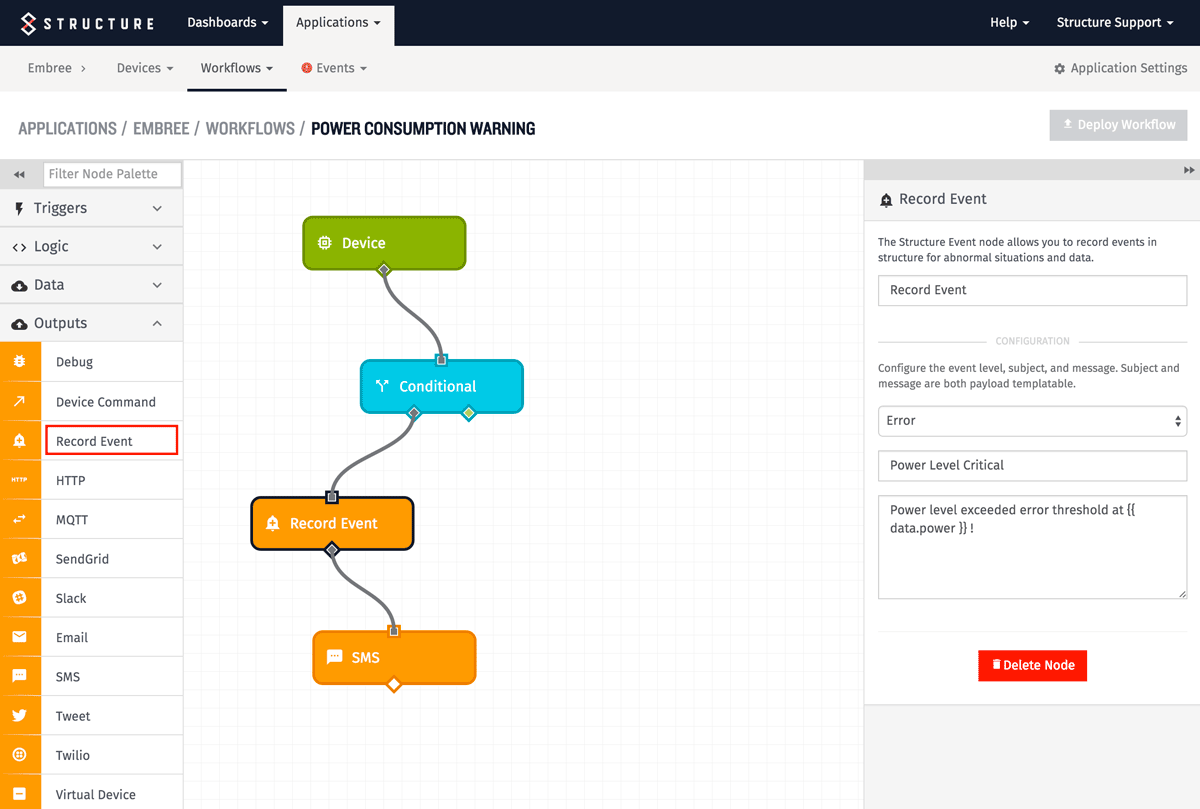
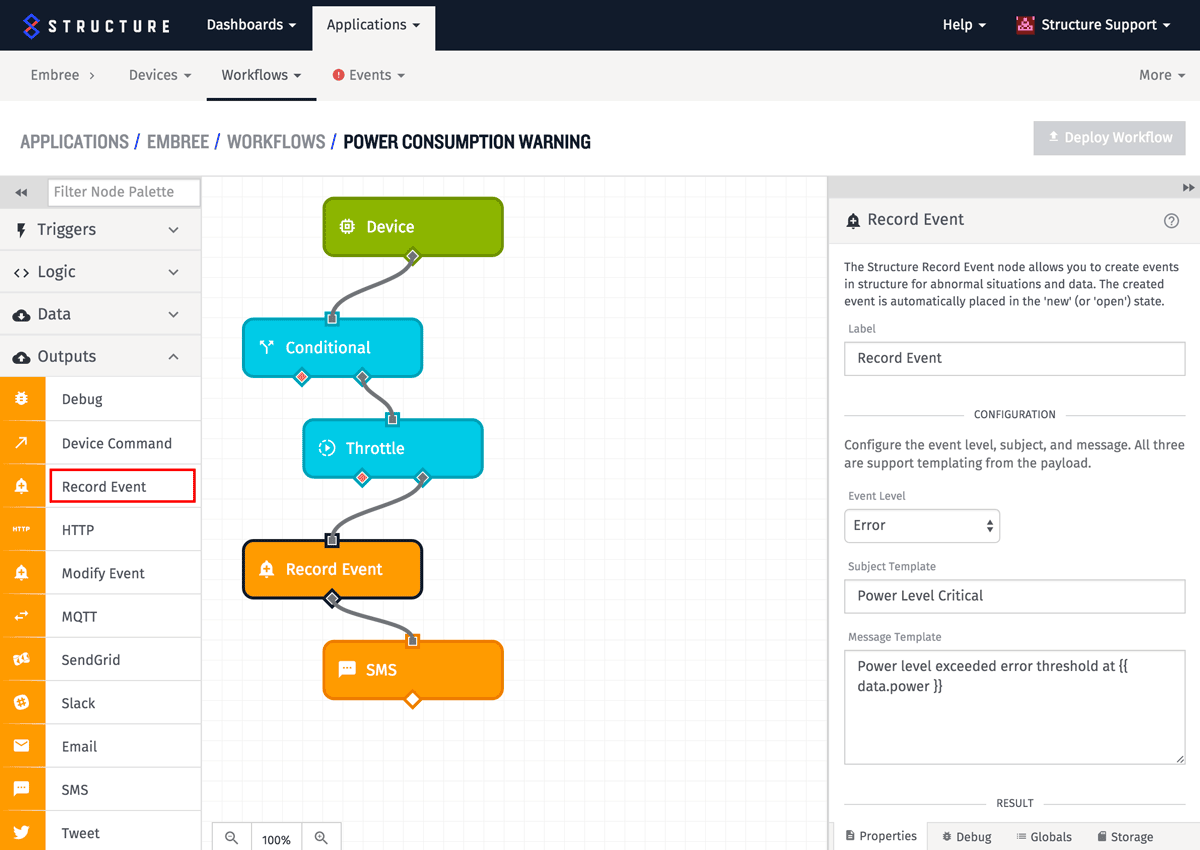
updates for record event node

diff --git a/docs/workflows/outputs/record-event.md b/docs/workflows/outputs/record-event.md
@@ -10,7 +10,15 @@ There are three parts to configuring a record event node - selecting the level o
 
 ![Record Event Node Configuration](/images/workflows/outputs/record-event-node-config.png "Record Event Node Configuration")
 
-The level of the event can be one of "Info", "Warning", "Error", or "Critical". The subject of the event supports payload templating, and so can be determined dynamically based on the current workflow payload. The detailed message is optional, but also supports payload templating if needed. If the detailed message is not set, the event is created with an empty detailed message. In the above example, the record event node will create an event with the level "Error", the subject "Power Level Critical", and the message "Power level exceeded error threshold at {{ data.power }}".
+The level of the event can be one of "Info", "Warning", "Error", "Critical", or "Payload Template". When "Payload Template" is selected, the level is determined by evaluating the given template string, allowing the level to be dynamically determined from the current workflow payload.  When using a template, the template string must evaluate to one of `info` / `warning` / `error` / `critical` - if it does not, the event creation will fail.
+
+The subject of the event supports payload templating, and so can be determined dynamically based on the current workflow payload. The detailed message is optional, but also supports payload templating if needed. If the detailed message is not set, the event is created with an empty detailed message. In the above example, the record event node will create an event with the level "Error", the subject "Power Level Critical", and the message "Power level exceeded error threshold at {{ data.power }}".
+
+## Output
+
+![Record Event Node Output](/images/workflows/outputs/record-event-node-output.png "Record Event Node Output")
+
+The record event node can optionally place the id of the created event onto the payload at an arbitrary JSON path.  In the above example, the event id will be placed on the payload at the path `data.newEventId`.  In the case of event creation being throttled, there will be no value placed at the path.
 
 ## Notes on Event Creation
 
